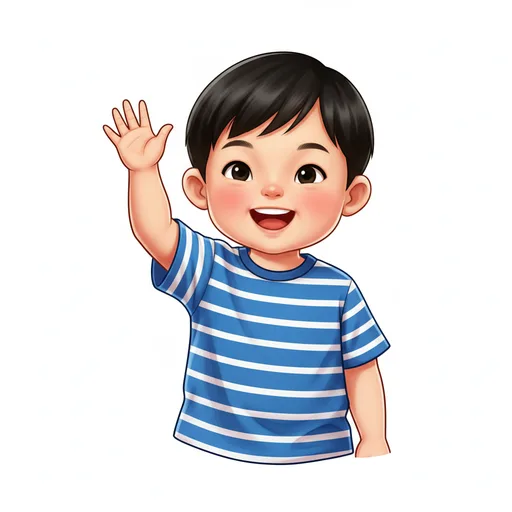
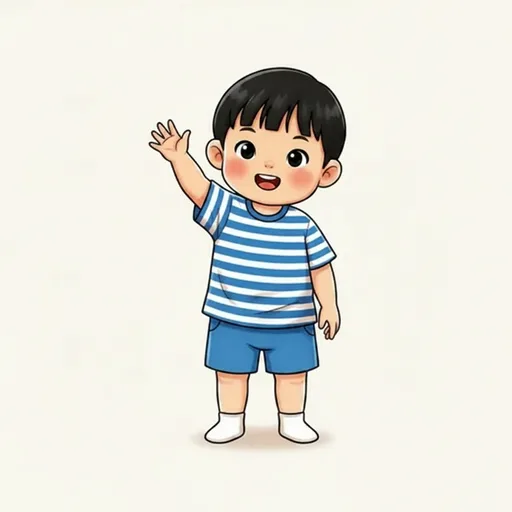
Fix: waving full-body (both frames) + laughing floating "ha ha ha"
Waving: act-wave-1 was a half-torso crop while act-wave-2 was full-body — regenerated
act-wave-1 full-body (locked to act-wave-2) so both frames match head-to-feet.
Laughing: added floating "ha ha ha" to both frames (image-edit; the two Black kids
and their poses/outfits unchanged), matching the old laughing cue.

npm run check + verify-actions green.

Changed region(s): [[0.1875, 0.0938, 0.7812, 0.9062]]

diff --git a/TINYVVOICE_PROJECT_CONTEXT.md b/TINYVVOICE_PROJECT_CONTEXT.md
@@ -5,16 +5,16 @@ A git pre-commit hook auto-refreshes the metadata block below; the human-maintai
 sections (Build Status, Next Steps) are updated by hand each push.
 
 <!-- AUTO:START -->
-> _Auto-updated on commit — last refreshed **2026-08-28 20:34 UTC** on branch `main`._
+> _Auto-updated on commit — last refreshed **2026-08-28 20:45 UTC** on branch `main`._
 
 **Recent commits:**
 
+- `bcddec5 Feat: animation diversity Batch 2b — final 10 verbs; ALL verbs now diverse`
 - `5acaff7 Feat: animation diversity Batch 2a — 8 verbs re-cast (locked method)`
 - `863b438 Fix: lock clothing consistency on dance/hug/wake (frame2 conditioned on frame1)`
 - `a0a5244 Feat: animation diversity Batch 1b — 6 verbs re-cast; Batch 1 complete`
 - `bc3f4e1 Feat: animation diversity Batch 1a — 5 verbs re-cast (fresh method)`
 - `a8f74d8 Feat: routine images — dressing/bath/park (NEW WORK Phase 4)`
-- `7be82dd Feat: routine wording — bedtime + bath (NEW WORK Phase 3)`
 <!-- AUTO:END -->
 
 ---
